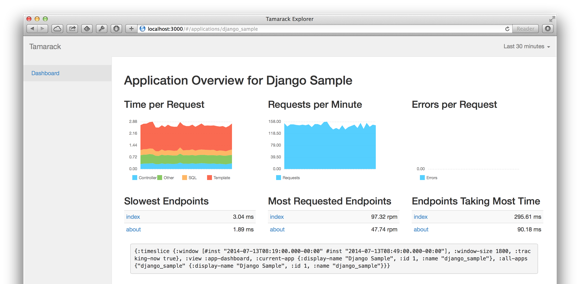
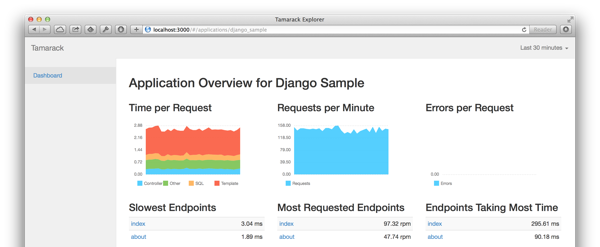
Layout update, retina image

diff --git a/css/main.css b/css/main.css
@@ -8,6 +8,10 @@
     font-family: Lato, sans-serif;
     font-weight: 300;
     margin: 0;
+    border-radius: 0;
+}
+
+.navbar .container {
     padding-top: 20px;
     padding-bottom: 60px;
 }
@@ -15,24 +19,36 @@
 .navbar .navbar-brand {
     text-transform: uppercase;
     font-size: 37px;
-    color: #000;
+    color: #53585f;
 }
 
 .navbar .navbar-nav li a {
     font-size: 26px;
-    color: #000;
+    color: #53585f;
 }
 
 h1 {
     font-family: Lato, sans-serif;
     font-weight: 300;
-    font-size: 30px;
+    font-size: 34px;
     line-height: 1.4;
 }
 
 .main-callout {
     padding-bottom: 1px;
     background-color: #dddee0;
+}
+
+.main-callout .right {
+    padding-left: 35px;
+}
+
+.main-callout .left {
+    padding-right: 35px;
+}
+
+.main-callout h1 {
+    text-align: right;
 }
 
 .main-callout .sign-up {
@@ -43,7 +59,7 @@ h1 {
     display: inline-block;
     padding: 8px 16px;
     font-size: 28px;
-    margin: 50px 0;
+    margin: 45px 0 10px 0;
     border-radius: 5px;
 }
 
@@ -53,6 +69,15 @@ h1 {
     font-size: 20px;
 }
 
-.main-callout img {
+.main-callout .centered-image {
     margin-top: 30px;
+    height: 247px;
+    background: url(../images/index-screenshot.png) center bottom no-repeat;
+    background-image: -webkit-image-set(
+        url(../images/index-screenshot.png) 1x,
+        url(../images/index-screenshot@2x.png) 2x);
+}
+
+.main-callout .container, .navbar-default .container {
+    background-image: -webkit-linear-gradient(00deg, #dddee0, #ebedf3, #dddee0);
 }

diff --git a/index.html b/index.html
@@ -6,19 +6,21 @@ title: Tamarack
 <div class="container-fluid main-callout">
   <div class="container">
     <div class="row">
-      <div class="col-sm-5">
+      <div class="col-sm-6 left">
         <h1>Profile Your Web Application’s Performance with Tamarack</h1>
+      </div>
 
+      <div class="col-sm-6 right">
         <a class="sign-up" href="https://app.tamarack.io/sign-up">Create Free Account</a>
 
         <p class="self-host">
-          &hellip;or <a href="https://github.com/mhallin/tamarack">download it and host it yourself.</a>
+          &hellip;or <a href="https://github.com/mhallin/tamarack">download</a> and host it yourself.
         </p>
-
       </div>
+    </div>
 
-      <div class="col-sm-5 col-sm-offset-1">
-        <img src="images/index-screenshot.png" alt="Tamarack Explorer">
+    <div class="row">
+      <div class="col-sm-12 centered-image">
       </div>
   </div>
 </div>
